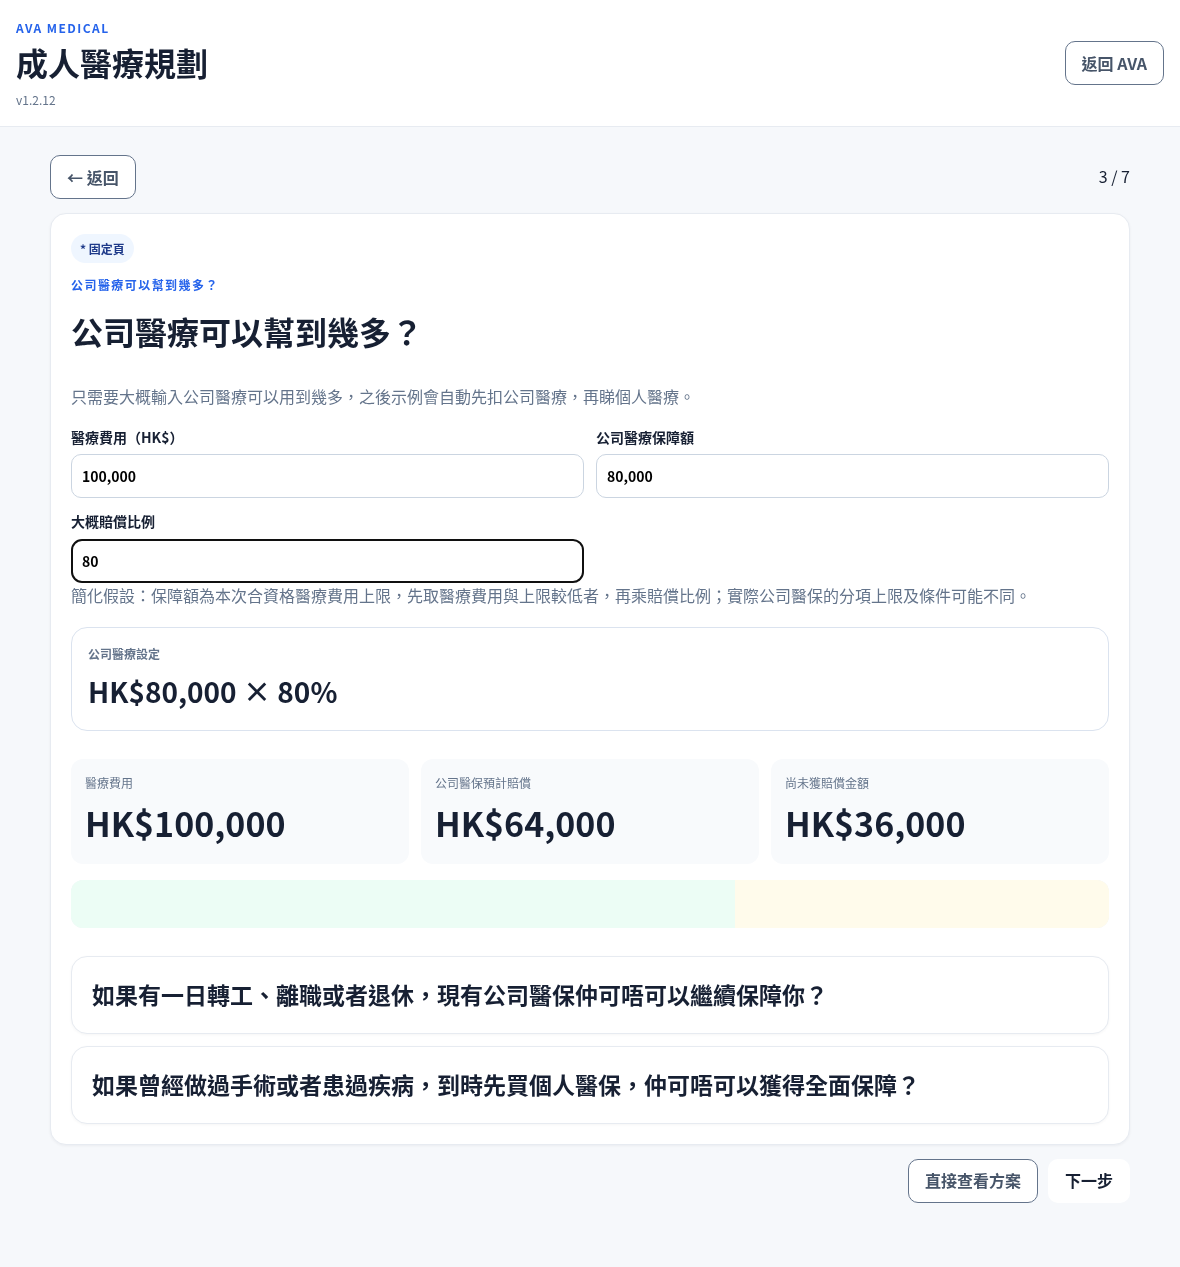
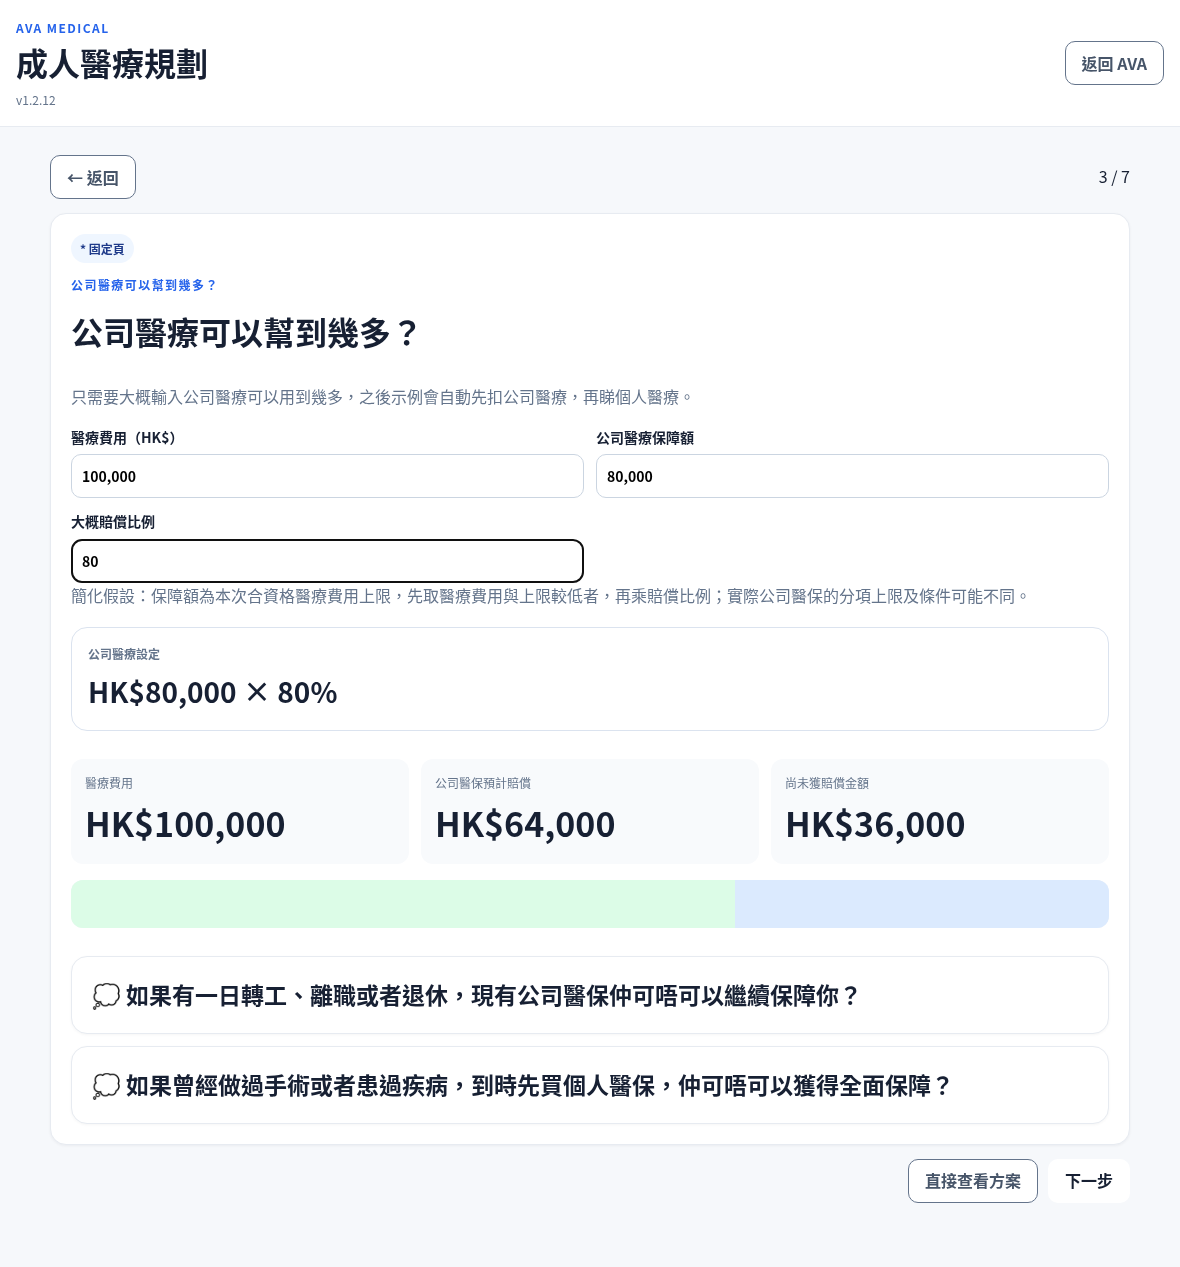
Polish R03 colors and Plan Hub navigation

Changed region(s): [[0.061, 0.8311, 0.7932, 0.8619], [0.6102, 0.6772, 0.9458, 0.7388], [0.061, 0.7695, 0.7322, 0.8003]]

diff --git a/app.js b/app.js
@@ -48,7 +48,7 @@ function goBack(){if(!state.journey){renderHome();return}if(state.planHubOpen){r
 // Plan Hub is a presentation over the current journey; it never starts/resets a journey.
 function openPlanHub(){if(!state.journey){startJourneyAtPage('ready','R07');return}state.planHubOpen=true;state.planHubSection='plans';renderPage({scrollToTop:true})}
 function returnFromPlanHub(){if(state.planHubOpen){state.planHubOpen=false;state.planHubSection='plans';if(state.journey==='notready'&&pageId(journeyPages(state.journey)[state.index])==='N07')state.returnedFromPlanInfo=true;renderPage({scrollToTop:true});return}state.planHubSection='plans';goBack()}
-function planHubNavigation(){return '<nav class="plan-hub-nav" aria-label="醫療方案分類">'+[['plans','三個醫療計劃'],['premiums','保費參考'],['claims','索償案例／索償示範']].map(([key,label])=>'<button type="button" class="ava-button ava-button--secondary" data-hub-section="'+key+'" aria-current="'+(state.planHubSection===key?'page':'false')+'">'+label+'</button>').join('')+'</nav><div class="nav-actions"><button type="button" class="ava-button ava-button--secondary" id="returnGuidedFlowBtn">返回 Guided Flow</button></div>'}
+function planHubNavigation(){return '<nav class="plan-hub-nav" aria-label="醫療方案分類"><button type="button" class="ava-button ava-button--secondary" id="returnGuidedFlowBtn">返回 Guided Flow</button>'+[['plans','三個醫療計劃'],['premiums','保費參考'],['claims','索償案例／索償示範']].map(([key,label])=>'<button type="button" class="ava-button ava-button--secondary" data-hub-section="'+key+'" aria-current="'+(state.planHubSection===key?'page':'false')+'">'+label+'</button>').join('')+'</nav>'}
 function planHubClaimsBlock(){return '<section aria-label="真實索償案例"><h3>真實索償案例</h3>'+claimCaseBlock()+'</section><section aria-label="索償示範"><h3>索償示範（非真實個案）</h3>'+readyClaimIllustrationBlock()+'</section>'}
 function isDirectAdvancePage(id){return DIRECT_ADVANCE_PAGES.includes(String(id).toUpperCase())}
 function renderPage({scrollToTop=false}={}){const ps=journeyPages(state.journey);if(!ps.length){state.renderedPageId=null;$('#pageCard').innerHTML='<h2>等待 Official Pages</h2><p class="support">Google Sheet 暫時未有可識別的 '+state.journey+' Journey page_id。</p>';$('#progressText').textContent='0 / 0';persistJourneySession();return}
@@ -92,7 +92,7 @@ function renderPage({scrollToTop=false}={}){const ps=journeyPages(state.journey)
 function hasCompanyMedical(){const v=state.answers.R02||state.answers.r02||state.answers.ready_existing||'';return v==='company_medical'}
 function companyMedicalPaid(cost){state.companyPaid=hasCompanyMedical()?Math.min(Math.max(0,+cost||0),Math.max(0,+state.companyCoverage||0))*Math.max(0,Math.min(100,+state.companyRate||0))/100:0;return state.companyPaid}
 function companyMedicalBreakdown(){const cost=Math.max(0,+state.claimCost||0),paid=companyMedicalPaid(cost),remaining=Math.max(0,cost-paid);return '<div class="company-breakdown"><div class="case-metrics"><div><small>醫療費用</small><strong>'+money(cost)+'</strong></div><div><small>公司醫保預計賠償</small><strong>'+money(paid)+'</strong></div><div><small>尚未獲賠償金額</small><strong>'+money(remaining)+'</strong></div></div><div class="bar company-reimbursement-bar" aria-label="公司醫保預計賠償 '+money(paid)+'，尚未獲賠償 '+money(remaining)+'"><span class="plan" style="width:'+(cost?paid/cost*100:0)+'%"></span><span class="customer" style="width:'+(cost?remaining/cost*100:0)+'%"></span></div></div>'}
-function companyMedicalBlock(){return '<div class="company-setup"><p class="helper">只需要大概輸入公司醫療可以用到幾多，之後示例會自動先扣公司醫療，再睇個人醫療。</p><div class="form-grid"><label>醫療費用（HK$）<input id="companyMedicalExpense" type="text" inputmode="numeric" autocomplete="off" value="'+claimCostInputValue(state.claimCost)+'"></label><label>公司醫療保障額<input id="companyCoverage" type="text" inputmode="numeric" autocomplete="off" data-numeric-state="companyCoverage" min="0" value="'+claimCostInputValue(state.companyCoverage)+'"></label><label>大概賠償比例<input id="companyRate" type="text" inputmode="numeric" autocomplete="off" data-numeric-state="companyRate" min="0" max="100" value="'+state.companyRate+'"></label></div><p class="helper">簡化假設：保障額為本次合資格醫療費用上限，先取醫療費用與上限較低者，再乘賠償比例；實際公司醫保的分項上限及條件可能不同。</p><div class="presentation-callout"><small>公司醫療設定</small><strong id="companySetupSummary">'+money(state.companyCoverage)+' × '+state.companyRate+'%</strong></div><div id="companyMedicalBreakdown">'+companyMedicalBreakdown()+'</div><div class="company-reflection-questions"><article class="ava-card"><p>如果有一日轉工、離職或者退休，現有公司醫保仲可唔可以繼續保障你？</p></article><article class="ava-card"><p>如果曾經做過手術或者患過疾病，到時先買個人醫保，仲可唔可以獲得全面保障？</p></article></div></div>'}
+function companyMedicalBlock(){return '<div class="company-setup"><p class="helper">只需要大概輸入公司醫療可以用到幾多，之後示例會自動先扣公司醫療，再睇個人醫療。</p><div class="form-grid"><label>醫療費用（HK$）<input id="companyMedicalExpense" type="text" inputmode="numeric" autocomplete="off" value="'+claimCostInputValue(state.claimCost)+'"></label><label>公司醫療保障額<input id="companyCoverage" type="text" inputmode="numeric" autocomplete="off" data-numeric-state="companyCoverage" min="0" value="'+claimCostInputValue(state.companyCoverage)+'"></label><label>大概賠償比例<input id="companyRate" type="text" inputmode="numeric" autocomplete="off" data-numeric-state="companyRate" min="0" max="100" value="'+state.companyRate+'"></label></div><p class="helper">簡化假設：保障額為本次合資格醫療費用上限，先取醫療費用與上限較低者，再乘賠償比例；實際公司醫保的分項上限及條件可能不同。</p><div class="presentation-callout"><small>公司醫療設定</small><strong id="companySetupSummary">'+money(state.companyCoverage)+' × '+state.companyRate+'%</strong></div><div id="companyMedicalBreakdown">'+companyMedicalBreakdown()+'</div><div class="company-reflection-questions"><article class="ava-card"><p>💭 如果有一日轉工、離職或者退休，現有公司醫保仲可唔可以繼續保障你？</p></article><article class="ava-card"><p>💭 如果曾經做過手術或者患過疾病，到時先買個人醫保，仲可唔可以獲得全面保障？</p></article></div></div>'}
 function bindLiveFundingInput(input,key){if(!input)return;const update=()=>{const before=input.value,position=input.selectionStart??before.length,digitsBefore=before.slice(0,position).replace(/[^0-9]/g,'').length,digits=before.replace(/[^0-9]/g,'');state[key]=Math.min(Number.MAX_SAFE_INTEGER,digits?Number(digits):0);const display=digits?claimCostInputValue(state[key]):'';input.value=display;let caret=0,seen=0;while(caret<display.length&&seen<digitsBefore){if(/[0-9]/.test(display[caret]))seen++;caret++}if(document.activeElement===input)input.setSelectionRange(caret,caret);updateFundingReportView();persistJourneySession()};input.oninput=update;input.onblur=()=>{if(input.value==='')input.value='';update()}}
 function parseNumericInput(value){const digits=String(value??'').replace(/[^0-9]/g,'');return digits?Number(digits):0}
 function bindLiveNumericInput(input,key,{max=Number.MAX_SAFE_INTEGER,format=true}={}){if(!input)return;const update=()=>{const before=input.value,position=input.selectionStart??before.length,digitsBefore=before.slice(0,position).replace(/[^0-9]/g,'').length;let value=Math.min(max,parseNumericInput(before));state[key]=value;const display=before===''?'':format?claimCostInputValue(value):String(value);input.value=display;let caret=0,seen=0;while(caret<display.length&&seen<digitsBefore){if(/[0-9]/.test(display[caret]))seen++;caret++}if(document.activeElement===input)input.setSelectionRange(caret,caret);updateCompanyMedicalSummary();persistJourneySession()};input.oninput=update;input.onblur=()=>{if(input.value==='')input.value=format?'0':'';update()}}

diff --git a/ready-product.css b/ready-product.css
@@ -10,8 +10,8 @@
 .inline-select { display: flex; align-items: center; flex-wrap: wrap; gap: 6px; margin-top: 8px; font-size: 14px; font-weight: 700; }
 .inline-select select { min-height: 44px; max-width: 100%; padding: 7px 10px; border: 1px solid #cbd5e1; border-radius: 10px; background: #fff; font: inherit; }
 .claim-bar { min-height: 36px; }
-.claim-bar .customer { background: #dbeafe; }
-.claim-bar .plan { background: #dcfce7; }
+.claim-bar .customer, .company-reimbursement-bar .customer { background: #dbeafe; }
+.claim-bar .plan, .company-reimbursement-bar .plan { background: #dcfce7; }
 .claim-bar-labels { display: flex; justify-content: space-between; gap: 12px; font-size: 14px; font-weight: 700; flex-wrap: wrap; }
 .you-pay strong { overflow-wrap: anywhere; }
 .product-positioning, .product-comparison-grid, .premium-results { display: grid; grid-template-columns: repeat(3,minmax(0,1fr)); gap: 14px; }
@@ -60,6 +60,4 @@
 .company-reflection-questions p { margin: 0; font-size: var(--ava-type-section); font-weight: var(--ava-weight-bold); line-height: var(--ava-line-copy); overflow-wrap: anywhere; }
 .company-breakdown { margin-top: var(--ava-gap-section); }
 .company-reimbursement-bar { margin-top: var(--ava-space-16); }
-.company-reimbursement-bar .plan { background: var(--ava-color-success-soft); }
-.company-reimbursement-bar .customer { background: var(--ava-color-warning-soft); }
 .claim-flow strong, .company-breakdown strong { overflow-wrap: anywhere; }

diff --git a/tests/guided-plan-hub-browser.py b/tests/guided-plan-hub-browser.py
@@ -73,11 +73,13 @@ def run():
             page.locator('[data-key="concern"]').click()
             page.locator('[data-key="no_medical"]').click()
             check(page.evaluate('state.renderedPageId') == 'R05', 'No medical skips conditional R03 and retired R04')
+            r05_palette = page.locator('.claim-bar').first.evaluate("e=>['plan','customer'].map(c=>getComputedStyle(e.querySelector('.'+c)).backgroundColor)")
             page.locator('#backBtn').click()
             page.locator('[data-key="company_medical"]').click()
             check(page.evaluate('state.renderedPageId') == 'R03', 'Company medical includes R03')
-            check(page.locator('.company-reflection-questions article').count() == 2 and page.locator('.company-reflection-questions p').all_inner_texts() == QUESTIONS, 'Exactly two reflection cards with exact Chinese wording')
-            check(page.locator('.company-reflection-questions').inner_text().replace('\n', '') == ''.join(QUESTIONS), 'Question area has no subtitles or extra text')
+            check(page.locator('.company-reflection-questions article').count() == 2 and page.locator('.company-reflection-questions p').all_inner_texts() == ['💭 '+q for q in QUESTIONS], 'Exactly two reflection cards with emoji and exact Chinese wording')
+            check(page.locator('.company-reflection-questions').inner_text().replace('\n', '') == ''.join('💭 '+q for q in QUESTIONS), 'Question area has only the two emoji-prefixed sentences')
+            check(page.locator('.company-reimbursement-bar').evaluate("e=>['plan','customer'].map(c=>getComputedStyle(e.querySelector('.'+c)).backgroundColor)") == r05_palette, 'R03 insurer/customer colors match the accepted R05 palette')
             for cost, coverage, rate, paid in [(100000,80000,80,64000),(50000,80000,80,40000),(100000,80000,0,0),(100000,80000,100,80000),(100000,0,80,0),(0,80000,80,0)]:
                 page.locator('#companyMedicalExpense').fill(str(cost))
                 page.locator('#companyCoverage').fill(str(coverage))
@@ -209,6 +211,15 @@ def fixture_money(n):
 
 
 def check_visual(page,label):
+    if page.locator('.plan-hub-nav').count():
+        nav=page.locator('.plan-hub-nav')
+        check(nav.locator(':scope > button').all_inner_texts()==['返回 Guided Flow','三個醫療計劃','保費參考','索償案例／索償示範'],label+' navigation order is Return, Plans, Premium, Claims in one container')
+        check(page.locator('#returnGuidedFlowBtn').count()==1 and page.locator('.nav-actions #returnGuidedFlowBtn').count()==0,label+' has no separate return-button row')
+        if page.viewport_size['width']>650:
+            boxes=nav.locator(':scope > button').evaluate_all('es=>es.map(e=>({x:e.getBoundingClientRect().x,y:e.getBoundingClientRect().y}))')
+            check(boxes[0]['x']<boxes[1]['x'] and abs(boxes[0]['y']-boxes[1]['y'])<1,label+' Return and Plans share the navigation row')
+            if page.viewport_size['width']>=795:
+                check(all(abs(b['y']-boxes[0]['y'])<1 for b in boxes),label+' all four navigation controls share the iPad/unfolded row')
     check(page.evaluate('document.documentElement.scrollWidth<=innerWidth'),label+' has no horizontal overflow')
     check(page.evaluate('''()=>[...document.querySelectorAll('.claim-flow strong,.case-metrics strong,.you-pay strong,.premium-result .metric')].every(e=>e.scrollWidth<=e.clientWidth+1)'''),label+' has no clipped amounts')
     for selector in ['#backBtn','#viewPlansBtn','#nextBtn','#returnGuidedFlowBtn','[data-hub-section]']:

diff --git a/docs/GUIDED-PLAN-HUB-VALIDATION.md b/docs/GUIDED-PLAN-HUB-VALIDATION.md
@@ -17,9 +17,17 @@ The existing three parallel Elite / Wise / Flexi cards, comparison content, sele
 
 Active Ready order is R01 → R02 → conditional R03 → R05 → R07 Hub → R08 → FINAL_SUMMARY. R04 and R09 remain Official stable IDs. Old R04 session pointers resume at R05; old R09 pointers resume at the Hub premium section. All verified, enabled, complete real cases appear in the Hub, separately from the existing claim simulation. An unavailable real-case message is confined to that area.
 
-R03 adds a medical-expense input sharing `claimCost` with existing illustrations. Its breakdown uses `min(expense, applicable eligible-expense ceiling) × rate`; the assumption is visible outside the reflection-question area. The actual derived reimbursement is retained in `companyPaid`. Exactly the two requested Chinese question sentences appear in two separate cards with no extra text inside that area.
+R03 adds a medical-expense input sharing `claimCost` with existing illustrations. Its breakdown uses `min(expense, applicable eligible-expense ceiling) × rate`; the assumption is visible outside the reflection-question area. The actual derived reimbursement is retained in `companyPaid`. Exactly the two requested Chinese question sentences appear in two separate cards, each prefixed with 💭, with no subtitles or additional descriptions.
 
 The existing claim engine now accepts the full bill and company payment, computes eligible deductible credit and remaining deductible, and clamps reimbursement/customer payment so an expense cannot be paid twice. R05 retains its cards, selectors, bars and typography. Amount-dependent bar text is omitted from segments too narrow to read; a break opportunity after HK$ and amount wrapping prevent unfolded-viewport overflow without rearranging the cards.
+
+## Final UI polish on the same Draft PR
+
+Continued PR #50 from its fetched head `f96a1eb3e7b2a93a5909206787cd35d37e49a1ee`; the target remains v1.2.12. R03 now reuses the accepted R05 reimbursement palette: insurance reimbursement is green (`#dcfce7`), and customer unpaid expense is blue (`#dbeafe`). The two existing question sentences each have a 💭 prefix; their wording, card structure and calculation inputs remain unchanged.
+
+The Hub navigation now orders **返回 Guided Flow → 三個醫療計劃 → 保費參考 → 索償案例／索償示範** in a single navigation container. The old separate return row is removed. Browser checks verify Return immediately to the left of Plans on the same row, and all four controls on one row for the tested iPad and unfolded-HONOR viewports. Mobile retains natural wrapping without overflow. Exact-page return and all existing state-persistence checks still pass.
+
+R05 is accepted by the Product Owner and received no presentation or calculation changes in this refinement. Its renderer functions and claim engine are unchanged from the accepted head, and **all five regenerated R05 PNG files are byte-for-byte identical**. Nine R03/Hub screenshots were updated. All previous regression coverage is retained; the question assertions now include the requested emoji prefix, and the browser suite adds palette and navigation-row checks for a total of 456 passing assertions. All 30 Node scripts, the existing Ready browser suite, syntax checks, Pages validation and static build passed again. Physical-device/installed-PWA acceptance remains outside these emulated browser results.
 
 ## Official verification gaps — required before activating live deductible credit
 
@@ -47,7 +55,7 @@ No verification flags or synthetic product values were written to production. No
 | JavaScript/module syntax | PASS | All frontend JS/MJS and Node test files |
 | Pages validation contract | PASS | Executed existing validate job locally |
 | Static site build | PASS | Existing Pages assembly copied the complete shell and generated release/build identity in a local scratch artifact; no deployment |
-| Guided Plan Hub Chromium suite | PASS | 374 assertions: eight selections; exact-page returns across both journeys; input/section/reload persistence; retired-ID migration; all verified cases; two exact questions; company reimbursement cases; deductible examples; controls and responsive QA |
+| Guided Plan Hub Chromium suite | PASS | 456 assertions: eight selections; exact-page returns across both journeys; input/section/reload persistence; retired-ID migration; all verified cases; two exact questions; company reimbursement cases; deductible examples; controls and responsive QA |
 | Existing Ready Chromium suite | PASS | Premium/deductible/gender/discount/payment handling, P7 Wise states, Back state, User Edit, Preview, Save Local and custom comparison items |
 | Responsive rendering | PASS | Chromium 154.0.8037.57: iPad landscape 1180×820; iPad portrait 820×1180; HONOR Magic V5 unfolded CSS viewport 795×720; mobile 390×844; boundaries 650/651 and 1000/1001px. Existing suite additionally checks 720/1500px |
 | Diff and protected-file review | PASS | No changes to premium engine/data, Official sync engine, GAS, Firebase configuration/rules, media connector implementation, other repositories, storage keys or backup format |
